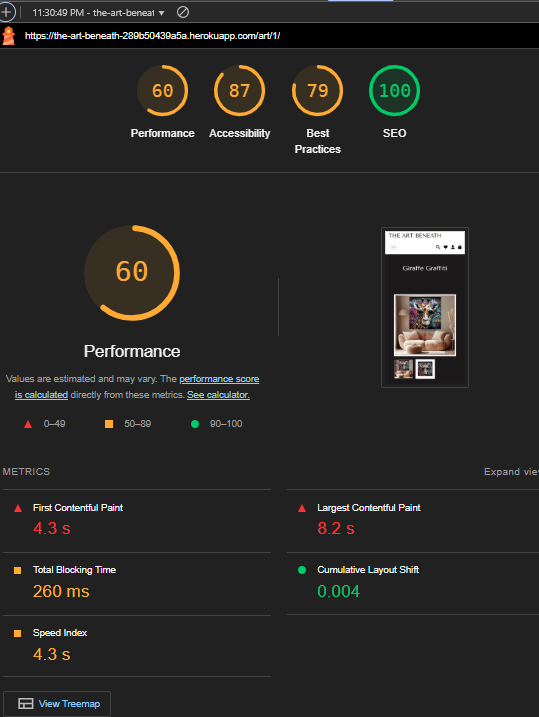
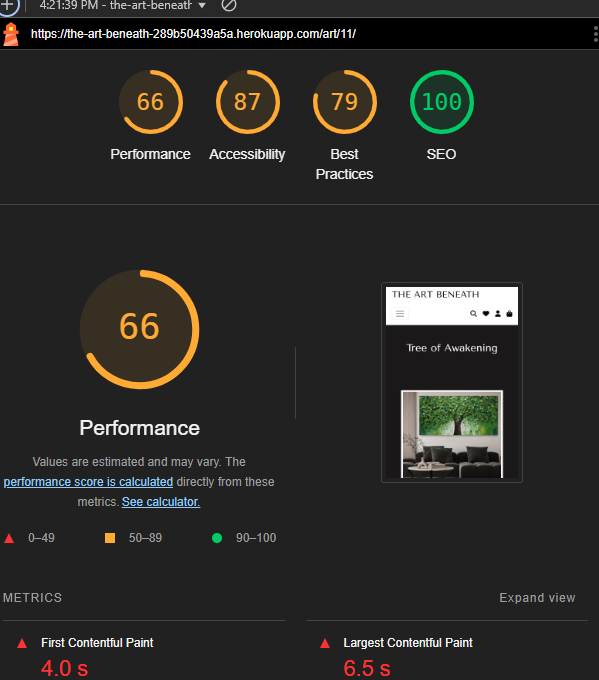
complete readme and testing file,add images for testing, applied date format for art

diff --git a/art/migrations/0015_alter_art_date.py b/art/migrations/0015_alter_art_date.py
@@ -1,0 +1,18 @@
+# Generated by Django 4.2.16 on 2025-02-28 17:08
+
+from django.db import migrations, models
+
+
+class Migration(migrations.Migration):
+
+    dependencies = [
+        ('art', '0014_remove_art_image_2_url_remove_art_image_url'),
+    ]
+
+    operations = [
+        migrations.AlterField(
+            model_name='art',
+            name='date',
+            field=models.DateField(help_text='Format: DD/MM/YYYY'),
+        ),
+    ]

diff --git a/art/models.py b/art/models.py
@@ -51,7 +51,7 @@ class Art(models.Model):
     meaning = models.TextField()
     color = models.TextField()
     price = models.DecimalField(max_digits=6, decimal_places=0)
-    date = models.DateField()
+    date = models.DateField(help_text="Format: YYYY-MM-DD")
     image = CloudinaryField('image', null=True, blank=True)
     image_2 = CloudinaryField('image', null=True, blank=True)
     orientation = models.CharField(

diff --git a/art/migrations/0016_alter_art_date.py b/art/migrations/0016_alter_art_date.py
@@ -1,0 +1,18 @@
+# Generated by Django 4.2.16 on 2025-02-28 17:09
+
+from django.db import migrations, models
+
+
+class Migration(migrations.Migration):
+
+    dependencies = [
+        ('art', '0015_alter_art_date'),
+    ]
+
+    operations = [
+        migrations.AlterField(
+            model_name='art',
+            name='date',
+            field=models.DateField(help_text='Format: YYYY-MM-DD'),
+        ),
+    ]

diff --git a/contact/forms.py b/contact/forms.py
@@ -1,5 +1,5 @@
 from django import forms
-from .models import ContactRequest  # Import Art model
+from .models import ContactRequest
 
 
 class ContactRequestForm(forms.ModelForm):

diff --git a/TESTING.md b/TESTING.md
@@ -85,18 +85,22 @@ Lighthouse testing was carried out in Incognito mode to achieve the best result.
 
 ### **Home Page**
 - **Desktop:** ![Home Page - Desktop](documentation/lh_home_desktop.png)
+
 - **Mobile:** ![Home Page - Mobile](documentation/lh_home_mobile.png)
 
 ### **Art Listing Page**
 - **Desktop:** ![Gallery - Desktop](documentation/lh_gallery_desktop.png)
+
 - **Mobile:** ![Gallery - Mobile](documentation/lh_gallery_mobile.png)
 
 ### **Individual Art Detail Page**
 - **Desktop:** ![Art Detail - Desktop](documentation/lh_art_detail_desktop.png)
+
 - **Mobile:** ![Art Detail - Mobile](documentation/lh_art_detail_mobile.png)
 
 ### **Login/Register Pages**
 - **Desktop:** ![Login Page - Desktop](documentation/lh_login_desktop.png)
+
 - **Mobile:** ![Login Page - Mobile](documentation/lh_login_mobile.png)
 
 
@@ -194,7 +198,10 @@ Testing was carried out on desktop using a Chrome browser to ensure all forms ta
 
 ### Unresolved/Known Bugs 
 Shopping cart footer needs to be pushed down. I had spend quite a lot of time fixing it only to findout it affected  other impotant aspects. 
+
 Similary had a huge issue with images on my detail page. Sicne I decided to use multiple images and have the ones not displaying being placed underneath of main image I did not manage to execute the function without and error, although I somehow trust it just need to be dissmissed as one of the thumbnail images will always be the same as the main image.
+
 Since a lot of time was involved to getting these aspects right I had decided to let it go back to it with a fresh, rested mind once all is done. 
-![id_warning](documentation/id_warning.png)
-The name on profile page is not saving, all the other details are saved to the database. Will be looking into the relationship as something is not linking correctly. 
+![id_warning](documentation/id_warning.png).
+
+Lighthouse low scores are mainly due to the sizes of the images. I had converted them into webp file but that made images being downloaded when clicked so I hd to go back to png. I also tried reducing the size further, nut that had affected overall quality of the art and I was not willing to scarifise that since it is the most important aspect of the gallery. I will look into imprving this furter. 
